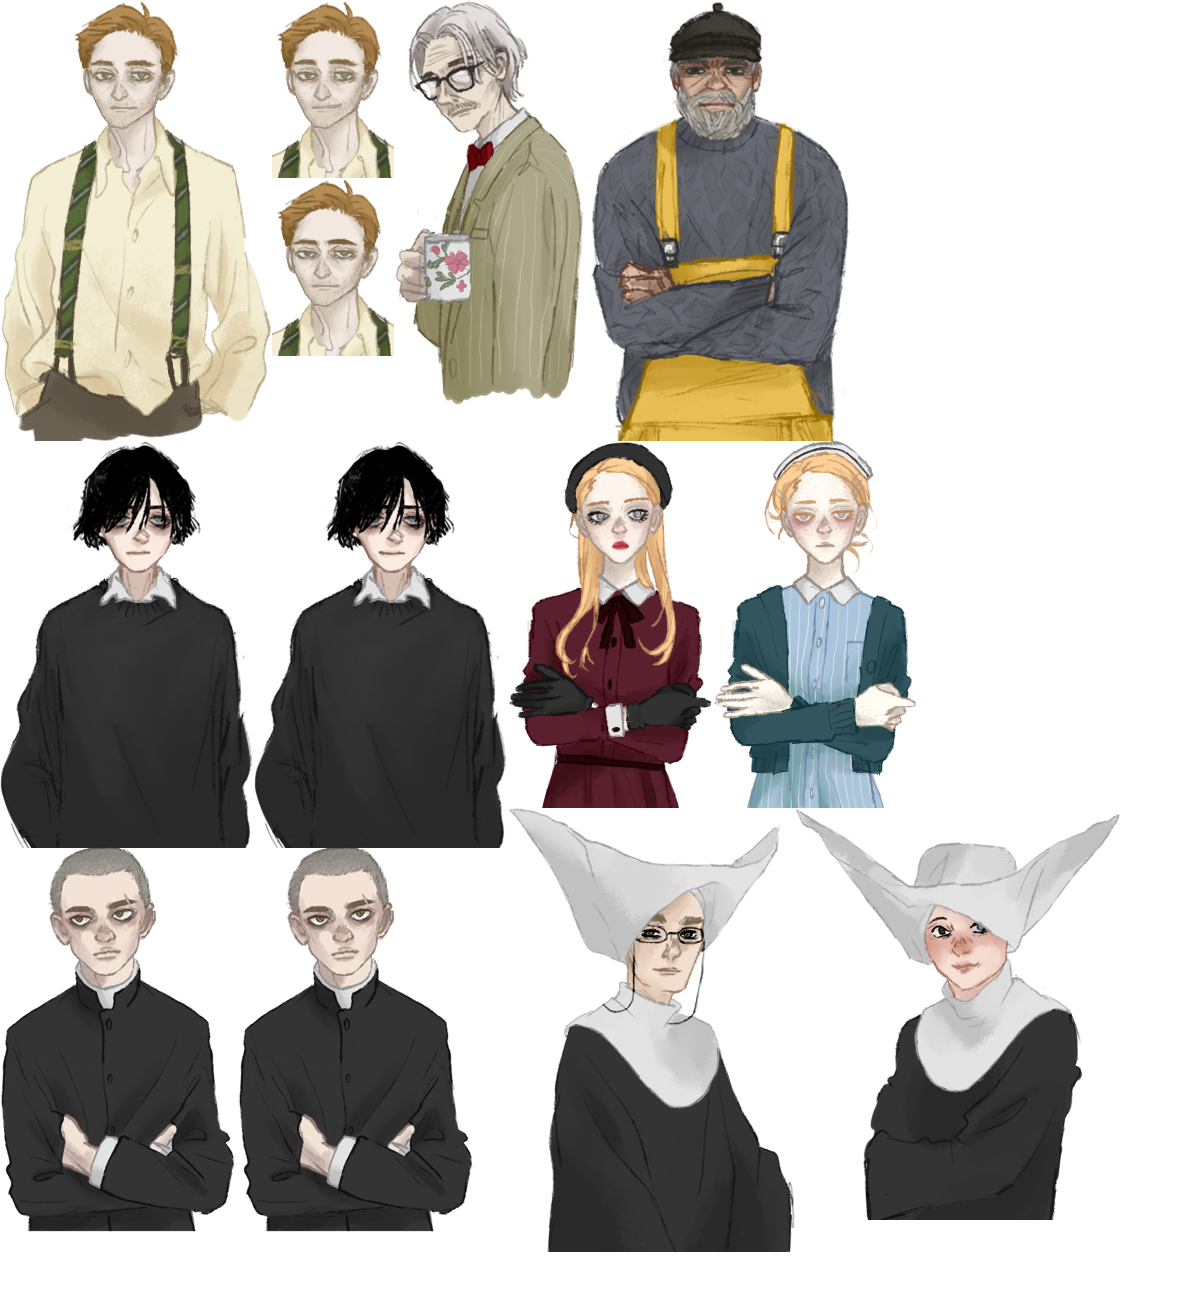
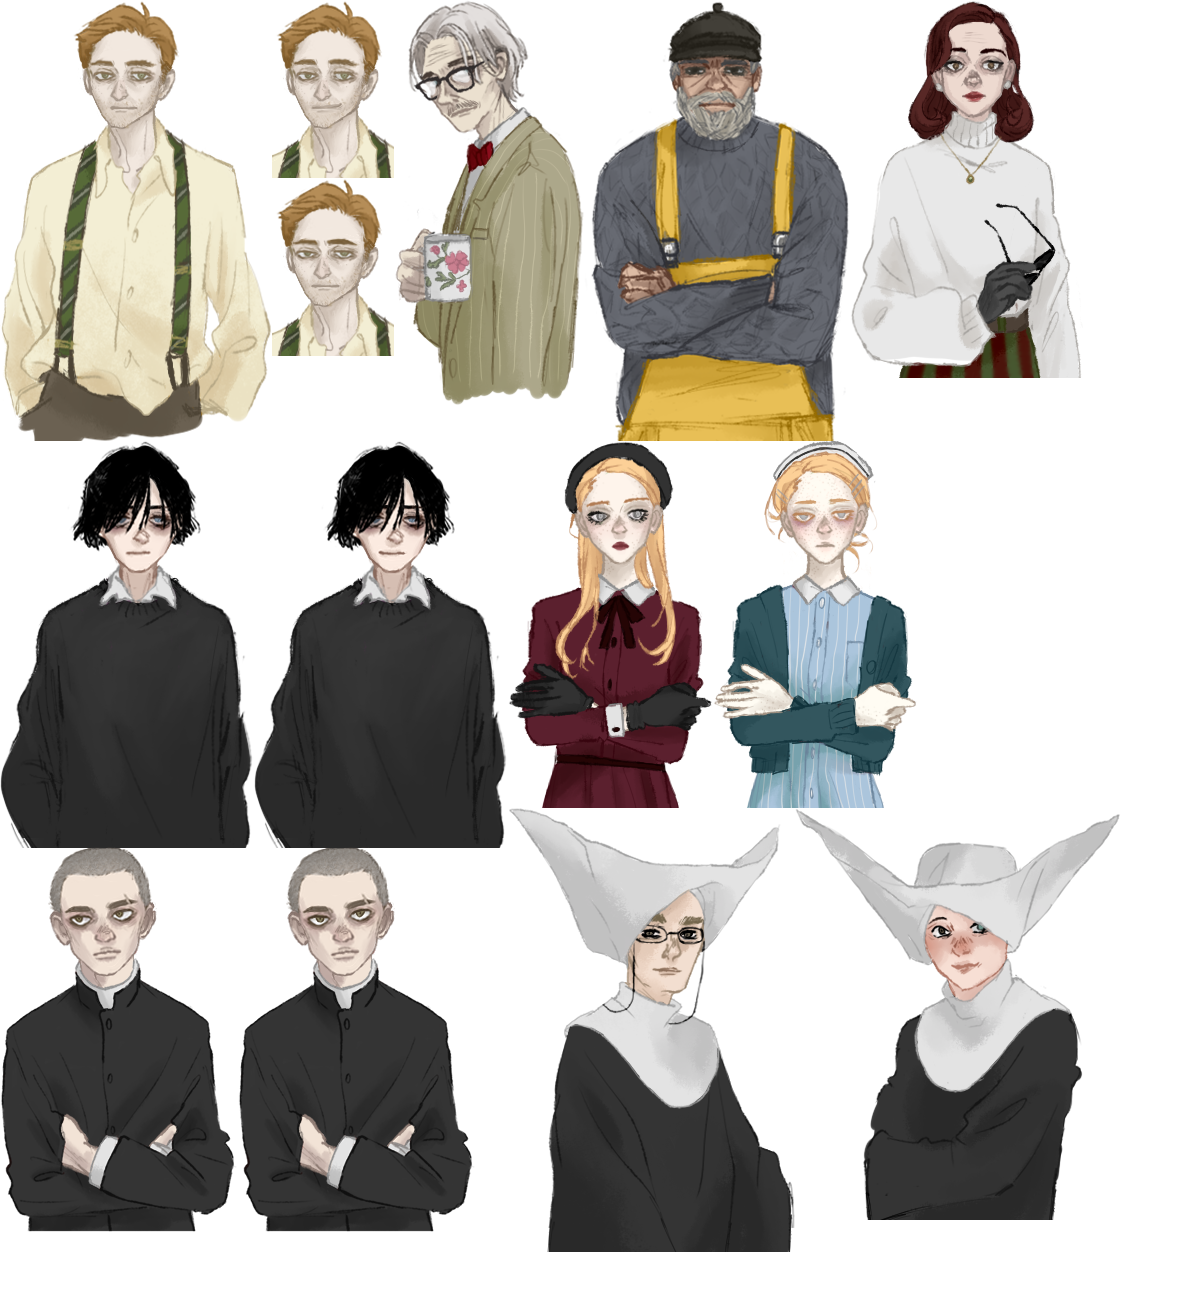
brecim rip notas ted uz urcite

Changed region(s): [[0.7092, 0.1538, 0.8942, 0.3077], [0.74, 0.0, 0.8633, 0.1538]]

diff --git a/src/scenes/Main.js b/src/scenes/Main.js
@@ -52,18 +52,21 @@ export default class Main extends Phaser.Scene {
         this.bag = new Bag(this);
 
         this.speechbox = new SpeechBox(this, undefined, 4);
+        this.speechbox.setOverlay(true);
         new SoundButton(this);
-        setTimeout(()=>this.startNextLoop('fisherman'),500);
+        setTimeout(()=>this.startNextLoop('mado'),500);
     }
     startNextLoop(key){
-        if (this.registry.get('loop')!=='st1') this.sound.playAudioSprite('audios','door_open');
+        if (key!=="st1"&&key!=="st2") this.sound.playAudioSprite('audios','door_open');
         this.registry.set('loop',key);
         this.loopdata = data[key];
-        this.cashRegister.setOrder(this.loopdata.order,this.loopdata.money);
-        this.bag.setVisible(true);
+        if (this.loopdata.order) {
+            this.cashRegister.setOrder(this.loopdata.order,this.loopdata.money);
+            this.bag.setVisible(true);
+        }
         this.frame.addCharacters(this.loopdata.characters);
         this.onceClicked = new Set();
-        this.trigger("entry");
+        this.time.delayedCall(1000, ()=>{this.trigger("entry")});
     }
     
     trigger(eventKey) {
@@ -83,7 +86,7 @@ export default class Main extends Phaser.Scene {
             if (this.registry.get('loop')!=='st1') {
                 this.frame.hideCharacters();
                 this.sound.playAudioSprite('audios','door_close');
-                this.time.delayedCall(3000,()=>this.startNextLoop(this.loopdata.next));
+                this.time.delayedCall(3000,()=>this.loopdata.break ? this.playBreak() : this.startNextLoop(this.loopdata.next));
             } else {
                 this.startNextLoop(this.loopdata.next)
             }
@@ -210,7 +213,7 @@ export default class Main extends Phaser.Scene {
         });
         return el
     }
-    readNews() {
+    readNews(fromBreak=false) {
         const categories = Object.keys(data.news);
         const previous = [];
         const openCategoryList = () => {
@@ -221,7 +224,9 @@ export default class Main extends Phaser.Scene {
                     openArticleList(cat);
                 }
             }));
-            options.push({ text: "Back", callback: () => this.speechbox.setOverlay(true) });
+            options.push({ text: fromBreak?"Finish reading":"...", callback: () => {
+                fromBreak ? this.endBreak() : this.speechbox.setOverlay(true);
+            } });
             this.speechbox.run("...", options);
         };
         const openArticleList = (category) => {
@@ -245,5 +250,18 @@ export default class Main extends Phaser.Scene {
         };
 
         openCategoryList();
-    }    
+    }
+    playBreak(){
+        this.speechbox.setOverlay(true)
+        if (this.registry.get('loop')==='st2') {
+            this.speechbox.setName(null);
+            this.speechbox.run("Wanna read news while waiting for customers?",[
+                {text:"Take a look", callback: ()=>this.readNews(true)},
+                {text:"Already read", callback: ()=>this.endBreak()}
+            ]);
+        }
+    }
+    endBreak(){
+        this.time.delayedCall(1500, () => { this.startNextLoop(this.loopdata.next) } )
+    }
 }

diff --git a/src/components/CashRegister.js b/src/components/CashRegister.js
@@ -202,7 +202,7 @@ export default class CashRegister {
             this.resetSuplik();
             this.order.length = 0;
             this.scene.bag.empty();
-            this.scene.time.delayedCall(100,()=>{
+            this.scene.time.delayedCall(500,()=>{
                 this.scene.trigger("checkout");
             })
         }

diff --git a/src/scenes/Ashtray.js b/src/scenes/Ashtray.js
@@ -8,6 +8,9 @@ const names = [
     {key:"seal",text:"Gray seal"}
 ]
 
+// trigger inner monologues / additional phrases based on chosen theme
+// free theme to trigger events randomly?
+
 export default class Ashtray extends Phaser.Scene {
     constructor() {
       super("Ashtray");

diff --git a/src/components/Frame.js b/src/components/Frame.js
@@ -196,5 +196,8 @@ const charsData = {
     },
     yves: {
         x: 160, y: 74
+    },
+    sylvie: {
+        x: 140, y: 90
     }
 }
